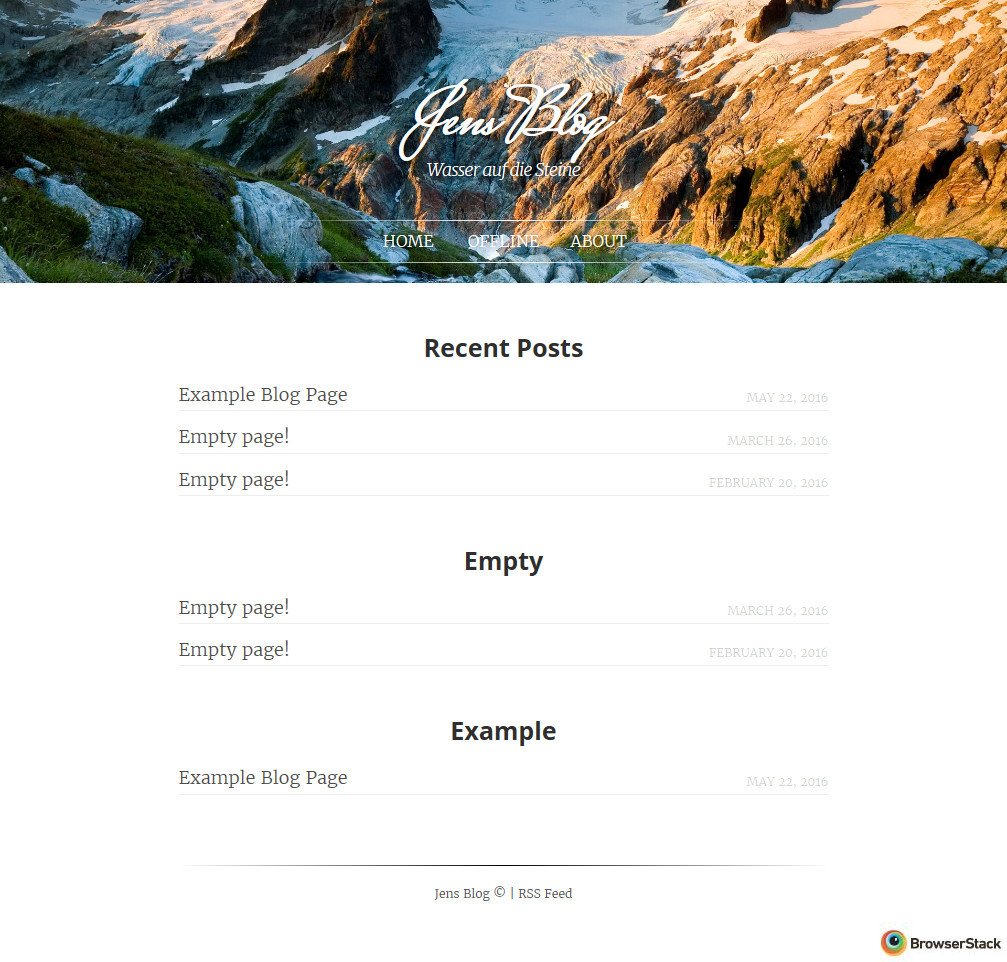
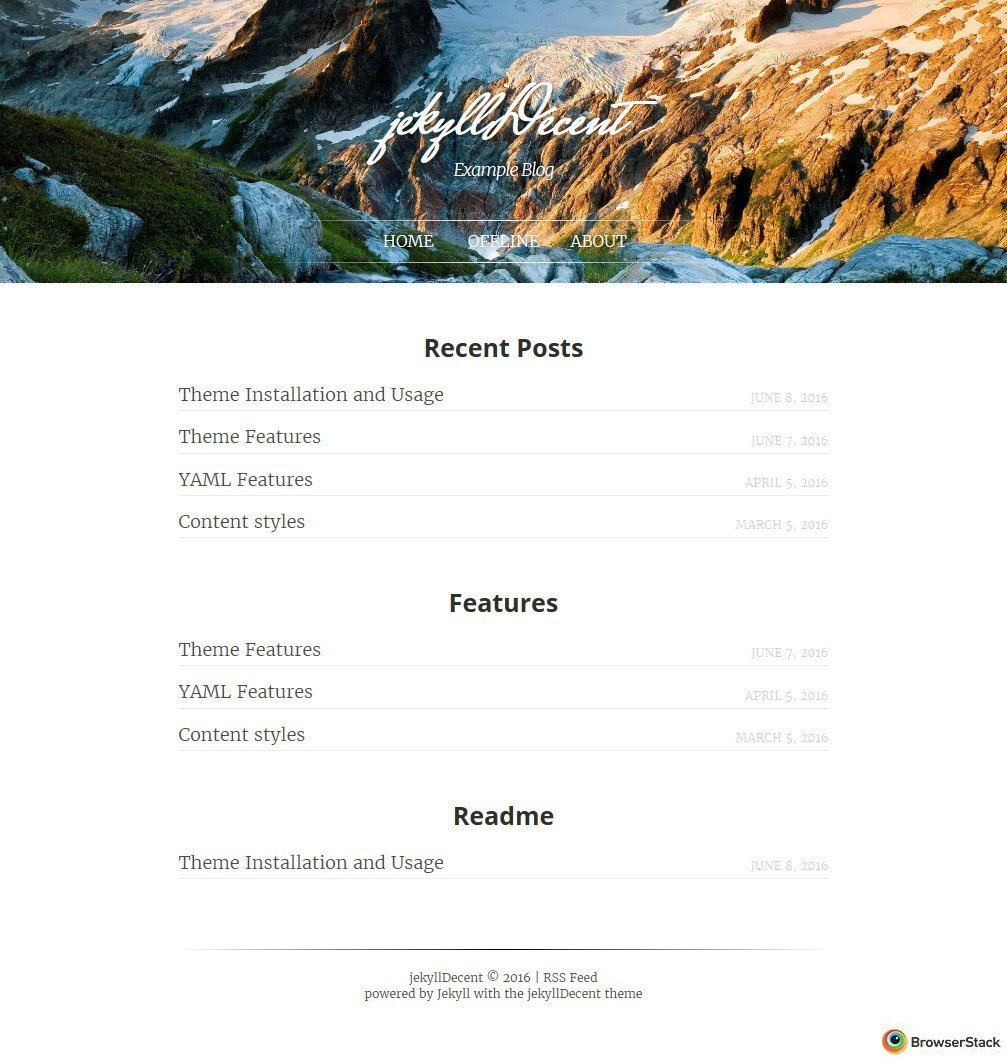
Updated preview photos and reduced readme file.

diff --git a/README.md b/README.md
@@ -5,234 +5,6 @@
 
 This is a blog template for a static site generator named [Jekyll](https://jekyllrb.com/docs/home/) based on a [Ghost](https://ghost.org) template named [Decent](https://github.com/serenader2014/decent). 
 
-**Demo Blog**: [GitHub generated site](http://jwillmer.github.io/jekyllDecent)
+Installation instructions, features, previews and more can be found in the [GitHub generated blog](http://jwillmer.github.io/jekyllDecent). This blog is automatically generated out of the source code in the `gh-pages` branch. If you like to see the theme in production have a look at [jwillmer.de](http://jwillmer.de).
 
-**Active Blog**: [jwillmer.de](http://jwillmer.de)
-
-
-## Content
-
-- [Screenshots](#screenshots)
-    - [Home page](#home)
-    - [Post page](#post)
-- [Installation](#installation)
-    - [Build](#build)
-- [User Content](#user-content)
-- [Features](#features)
-    - [Image Features](#image-features)
-        - [Parallax Effect](#parallax-effect)
-        - [Caption for Image](#caption-for-image)
-        - [Image Allignment](#image-allignment)
-        - [Fullscreen image](#fullscreen-image)
-        - [Image Gallery](#image-gallery)
-    - [Sourcecode Features](#sourcecode-features)
-    - [Author in quote](#author-in-quote)
-    - [PDF and PowerPoint integration](#pdf-and-powerpoint-integration)
-- [License](#license)
-
-## Screenshots
-
-### Home
-![](./media/img/2016-06-08-Readme-front-page-previewe.jpg)
-
-### Post
-![](./media/img/2016-06-08-Readme-page-preview.jpg)
-
-## Installation
-
-- To generate/host the blog you need to [install Jekyll](https://jekyllrb.com/docs/installation/). 
-- For the plugins (github-pages) you need to install [Bundler](http://bundler.io/): `gem install bundler`
-   - Open a command prompt and install the plugins (github-pages): `bundle install`
-   - On Windows you will propably get an exception. To solve it you can read [How to install Jekyll and pages-gem on Windows (x64)](http://jwillmer.de/blog/tutorial/how-to-install-jekyll-and-pages-gem-on-windows-10-x46) or you remove the plugins by deleting the `Gemfile` and delete all `gems:` from the `_config.yml` 
-
-### Build
-
-- To build the static site you can use the generated site folder that Jekyll creates when you use `jekyll serve` or you can build it explicitly with `jekyll build`.
-- If you like to use GitHub to host your blog you can fork this project and publish the code to `gh-pages`. GitHub has jekyll included and will generate the site for you.
-
-
-## User Content
-
-Blogposts can be written in [Markdown](https://de.wikipedia.org/wiki/Markdown). 
-
-- The folder for blog content is `_posts`
-- For author details you need to modify ´_data/authors.yml`
-- For site properties (like the name) you need to modify `_config.yml`
-- For the about page you need to modify the `about.md` in `_pages`
-
-After modifying `*.yml` files you need to restart jekyll to take effect.
-
-Following (additional) features are supported in the header ([YAML Front Matter](https://jekyllrb.com/docs/frontmatter/)) of each post:
-
-```
----
-title:         Example              #Page/post title
-author:        jwillmer             #Page/post author
-cover:         /assets/mountain.jpg #Optional: Posibillity to change cover on a post/page
-redirect_from: /foo                 #Optional: Secondary url that will redirect to this page if GitHub-pages gem is installed!
-visible:       false                #Optional: Hide page from listing in the menu.
-weight:        5                    #Optional: Influence sorting of pages in the menu
-menutitle:     Offline              #Optional: Use a secondary name in the menu (for page) or in the post list (for posts)
-tags:          hallo welt           #Will be displayed as tags in posts and as keywords in the header
-keywords       hallo welt           #Will only be used if no tags are defined or if it is a page (Don't use tags on pages!)
----
-```
-
-## Features
-
-The features described in this section are specific for this template. All other language features can be found in the [kramdown documentation](http://kramdown.gettalong.org/syntax.html). 
-
-### Image Features
-
-
-#### Parallax Effect
-
-Keep in mind that paralax effect will not be captured if you like to print the page.
-
-```html
-<div class="bg-scroll" style="background-image: url('{{ site.github.url }}/media/img/mountain1.jpg')"></div>
-```
-
-#### Caption for Image
-
-```html
-<figure>
-![]({{ site.github.url }}/media/img/chen.jpg)
-<figcaption>This is figcaption. A beautiful picture.</figcaption>
-</figure>
-```
-
-#### Image Allignment
-
-```
-![]({{ site.github.url }}/media/img/untitled-9.gif#right)
-![]({{ site.github.url }}/media/img/untitled-9.gif#left)
-```
-
-Allignment with caption
-
-```html
-<figure class="left">
-![]({{ site.github.url }}/media/img/chen.jpg)
-<figcaption>hello world!</figcaption>
-</figure>
-```
-
-#### Fullscreen image
-
-```html
-<div class="large">
-![]({{ site.github.url }}/media/img/DSC01093.JPG)
-</div>
-```
-
-With caption
-
-```html
-<figure class="large">
-![]({{ site.github.url }}/media/img/DSC01135-1.jpg)
-<figcaption>wow so handsome</figcaption>
-</figure>
-```
-
-#### Image Gallery
-
-```html
-<div class="album">
-![]({{ site.github.url }}/media/img/Screenshot_2016-04-09-19-16-28.png)
-![]({{ site.github.url }}/media/img/Screenshot_2016-04-02-00-48-25.png)
-![]({{ site.github.url }}/media/img/Screenshot_2016-04-01-12-03-36.png)
-![]({{ site.github.url }}/media/img/Screenshot_2016-04-01-12-01-33.png)
-![]({{ site.github.url }}/media/img/Screenshot_2016-03-24-12-13-58.png)
-![]({{ site.github.url }}/media/img/Screenshot_2016-03-17-22-50-05.png)
-</div>
-```
-
-With caption
-
-```html
-<div class="album">
-<figure>
-![]({{ site.github.url }}/media/img/wiebe.jpg)
-<figcaption>wow so handsome</figcaption>
-</figure>
-
-<figure>
-![]({{ site.github.url }}/media/img/day.jpg)
-<figcaption>wow so handsome</figcaption>
-</figure>
-
-</div>
-```
-
-### Sourcecode Features
-
-With language highlighting
-
-```html
-    ```html
-    <script>
-        var decentThemeConfig = {
-            ga: 'YOUR TRACK ID'
-        };
-    </script>
-    ```
-```
-
-With language highlighting, line numbers and line highlighting
-
-```javascript
-<pre data-line="5" class="line-numbers language-javascript"><code>
-Array.prototype.uniq = function () {
-    var map = {};
-    return this.filter(function (item) {
-        if (map[item]) {
-            return false;
-        } else {
-            map[item] = true;
-            return true;
-        }
-    });
-};
-</code></pre>
-```
-
-### Author in quote
-
-```
-> Our destiny offers not the cup of despair, but the chalice of opportunity. So let us seize it, not in fear, but in gladness.
-> 
-> <cite>——R.M. Nixon</cite>
-```
-
-### PDF and PowerPoint integration
-
-```html
-<iframe src='https://view.officeapps.live.com/op/embed.aspx?src=http://img.labnol.org/di/PowerPoint.ppt' frameborder='0'></iframe>
-```
-
-## License
-
-The theme is released under **[The MIT License (MIT)](https://github.com/jwillmer/jekyllDecent/blob/gh-pages/LICENSE)**.
-
-    The MIT License (MIT)
-
-    Copyright (c) 2016 Jens Willmer
-
-    Permission is hereby granted, free of charge, to any person obtaining a copy
-    of this software and associated documentation files (the "Software"), to deal
-    in the Software without restriction, including without limitation the rights
-    to use, copy, modify, merge, publish, distribute, sublicense, and/or sell
-    copies of the Software, and to permit persons to whom the Software is
-    furnished to do so, subject to the following conditions:
-    
-    The above copyright notice and this permission notice shall be included in all
-    copies or substantial portions of the Software.
-    
-    THE SOFTWARE IS PROVIDED "AS IS", WITHOUT WARRANTY OF ANY KIND, EXPRESS OR
-    IMPLIED, INCLUDING BUT NOT LIMITED TO THE WARRANTIES OF MERCHANTABILITY,
-    FITNESS FOR A PARTICULAR PURPOSE AND NONINFRINGEMENT. IN NO EVENT SHALL THE
-    AUTHORS OR COPYRIGHT HOLDERS BE LIABLE FOR ANY CLAIM, DAMAGES OR OTHER
-    LIABILITY, WHETHER IN AN ACTION OF CONTRACT, TORT OR OTHERWISE, ARISING FROM,
-    OUT OF OR IN CONNECTION WITH THE SOFTWARE OR THE USE OR OTHER DEALINGS IN THE
-    SOFTWARE.    
+![]({{./media/img/2016-06-08-Readme-front-page-previewe.jpg)

diff --git a/_posts/2016-06-08-Readme.md b/_posts/2016-06-08-Readme.md
@@ -24,6 +24,16 @@ If you like to see the theme in production have a look at [jwillmer.de](http://j
 <figcaption>Post</figcaption>
 </figure>
 
+<figure>
+<img src="{{ site.github.url }}/media/img/2016-06-08-Readme-content-preview.jpg" />
+<figcaption>Demo</figcaption>
+</figure>
+
+<figure>
+<img src="{{ site.github.url }}/media/img/2016-06-08-Readme-about-preview.jpg" />
+<figcaption>About Page</figcaption>
+</figure>
+
 </div>
 
 
